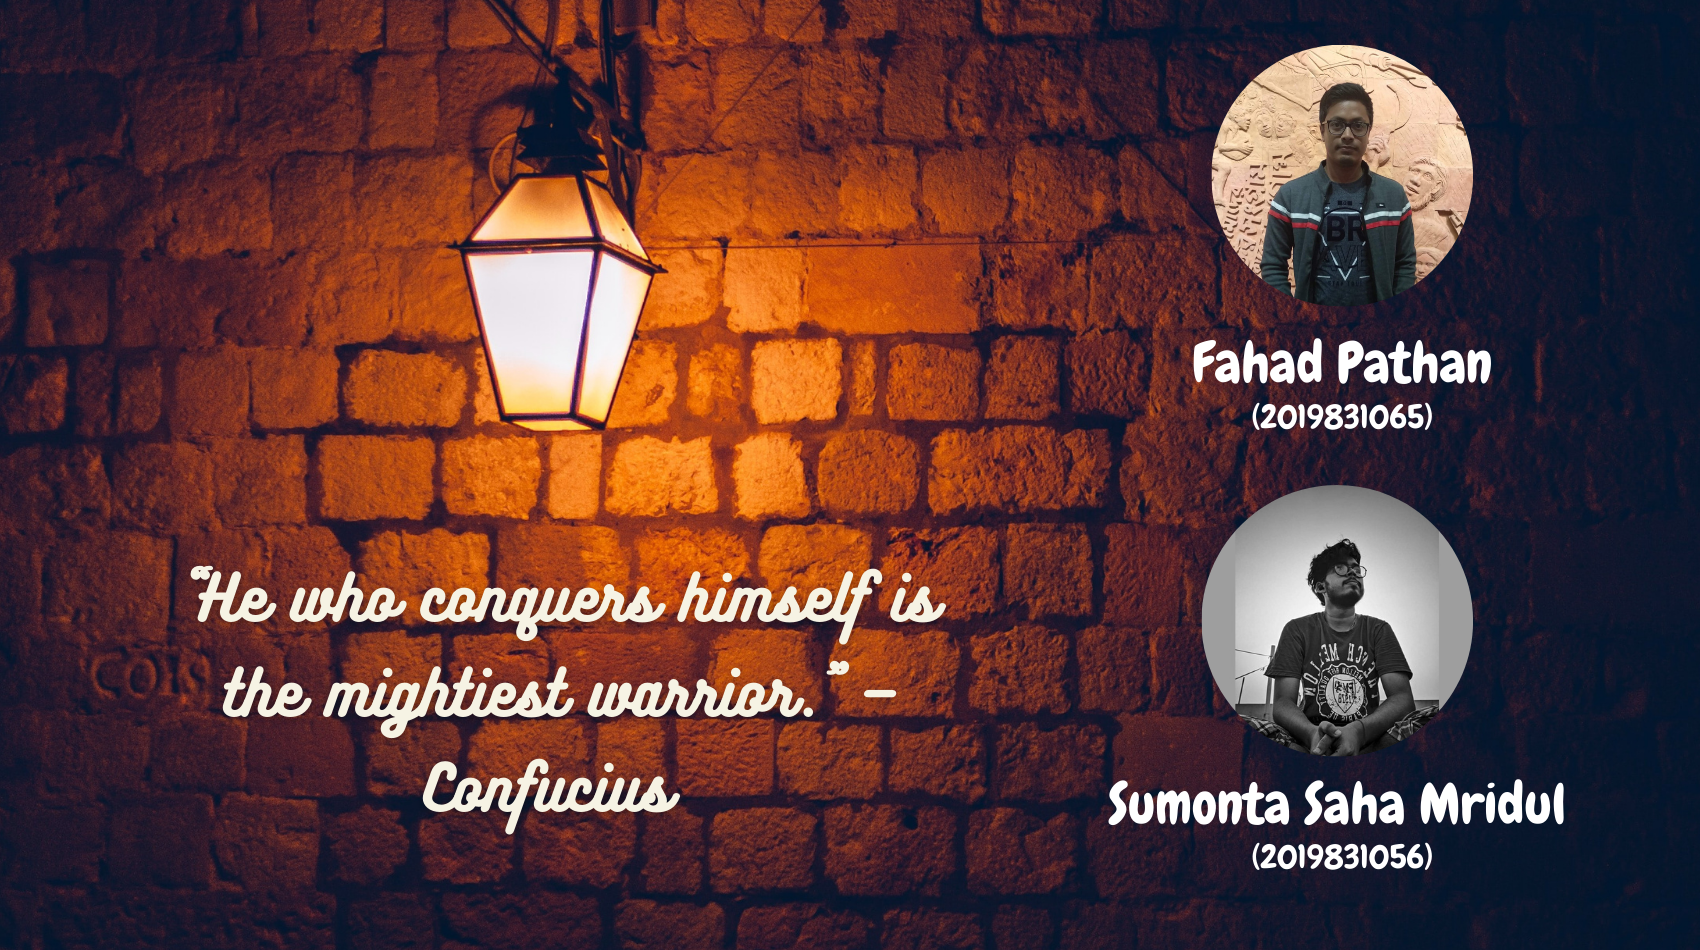
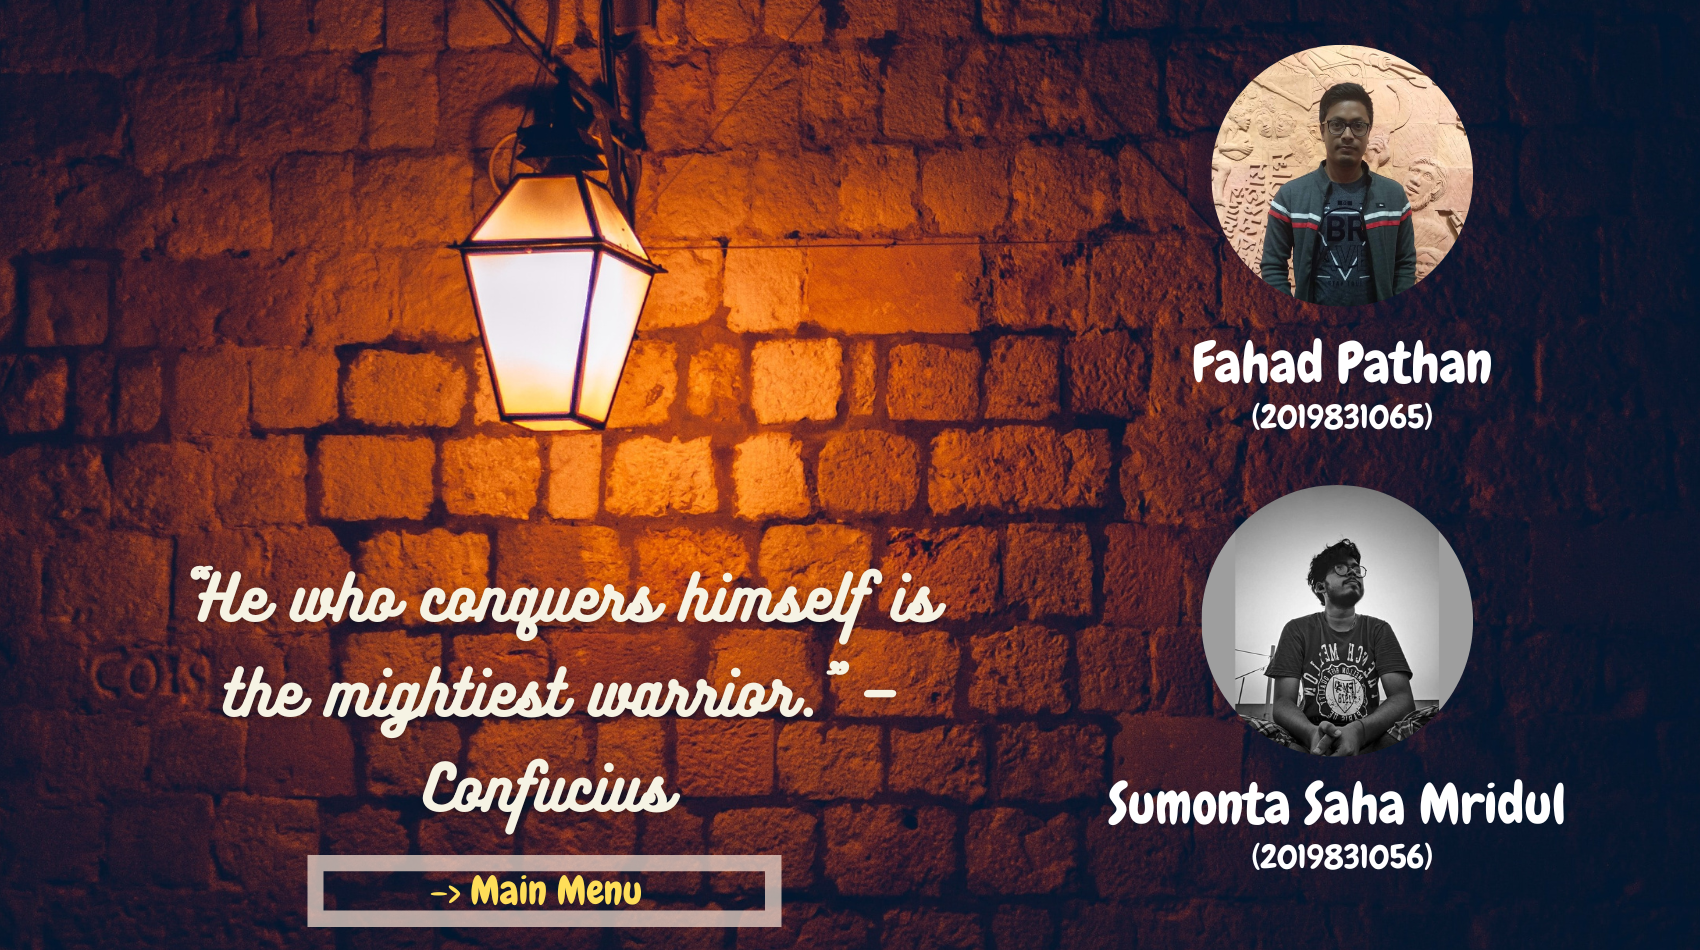
main menu and about screen changes

Changed region(s): [[0.1559, 0.8853, 0.4676, 0.9768]]

diff --git a/core/src/com/mygdx/game/AboutScreen.java b/core/src/com/mygdx/game/AboutScreen.java
@@ -37,6 +37,15 @@ public class AboutScreen implements Screen {
 
         ScreenUtils.clear(1, 1, 1, 1);
 
+        if (Gdx.input.getX() >= 305 && Gdx.input.getX() <= 7855 &&
+                MyGdxGame.SCREEN_HEIGHT - Gdx.input.getY() >= 25
+                && MyGdxGame.SCREEN_HEIGHT - Gdx.input.getY() <= 95) {
+            if (Gdx.input.isTouched()) {
+                this.dispose();
+                game.setScreen(new GameMenuScreen(game));
+            }
+        }
+
         game.batch.begin();
 
         game.batch.draw(image, 0,0);
